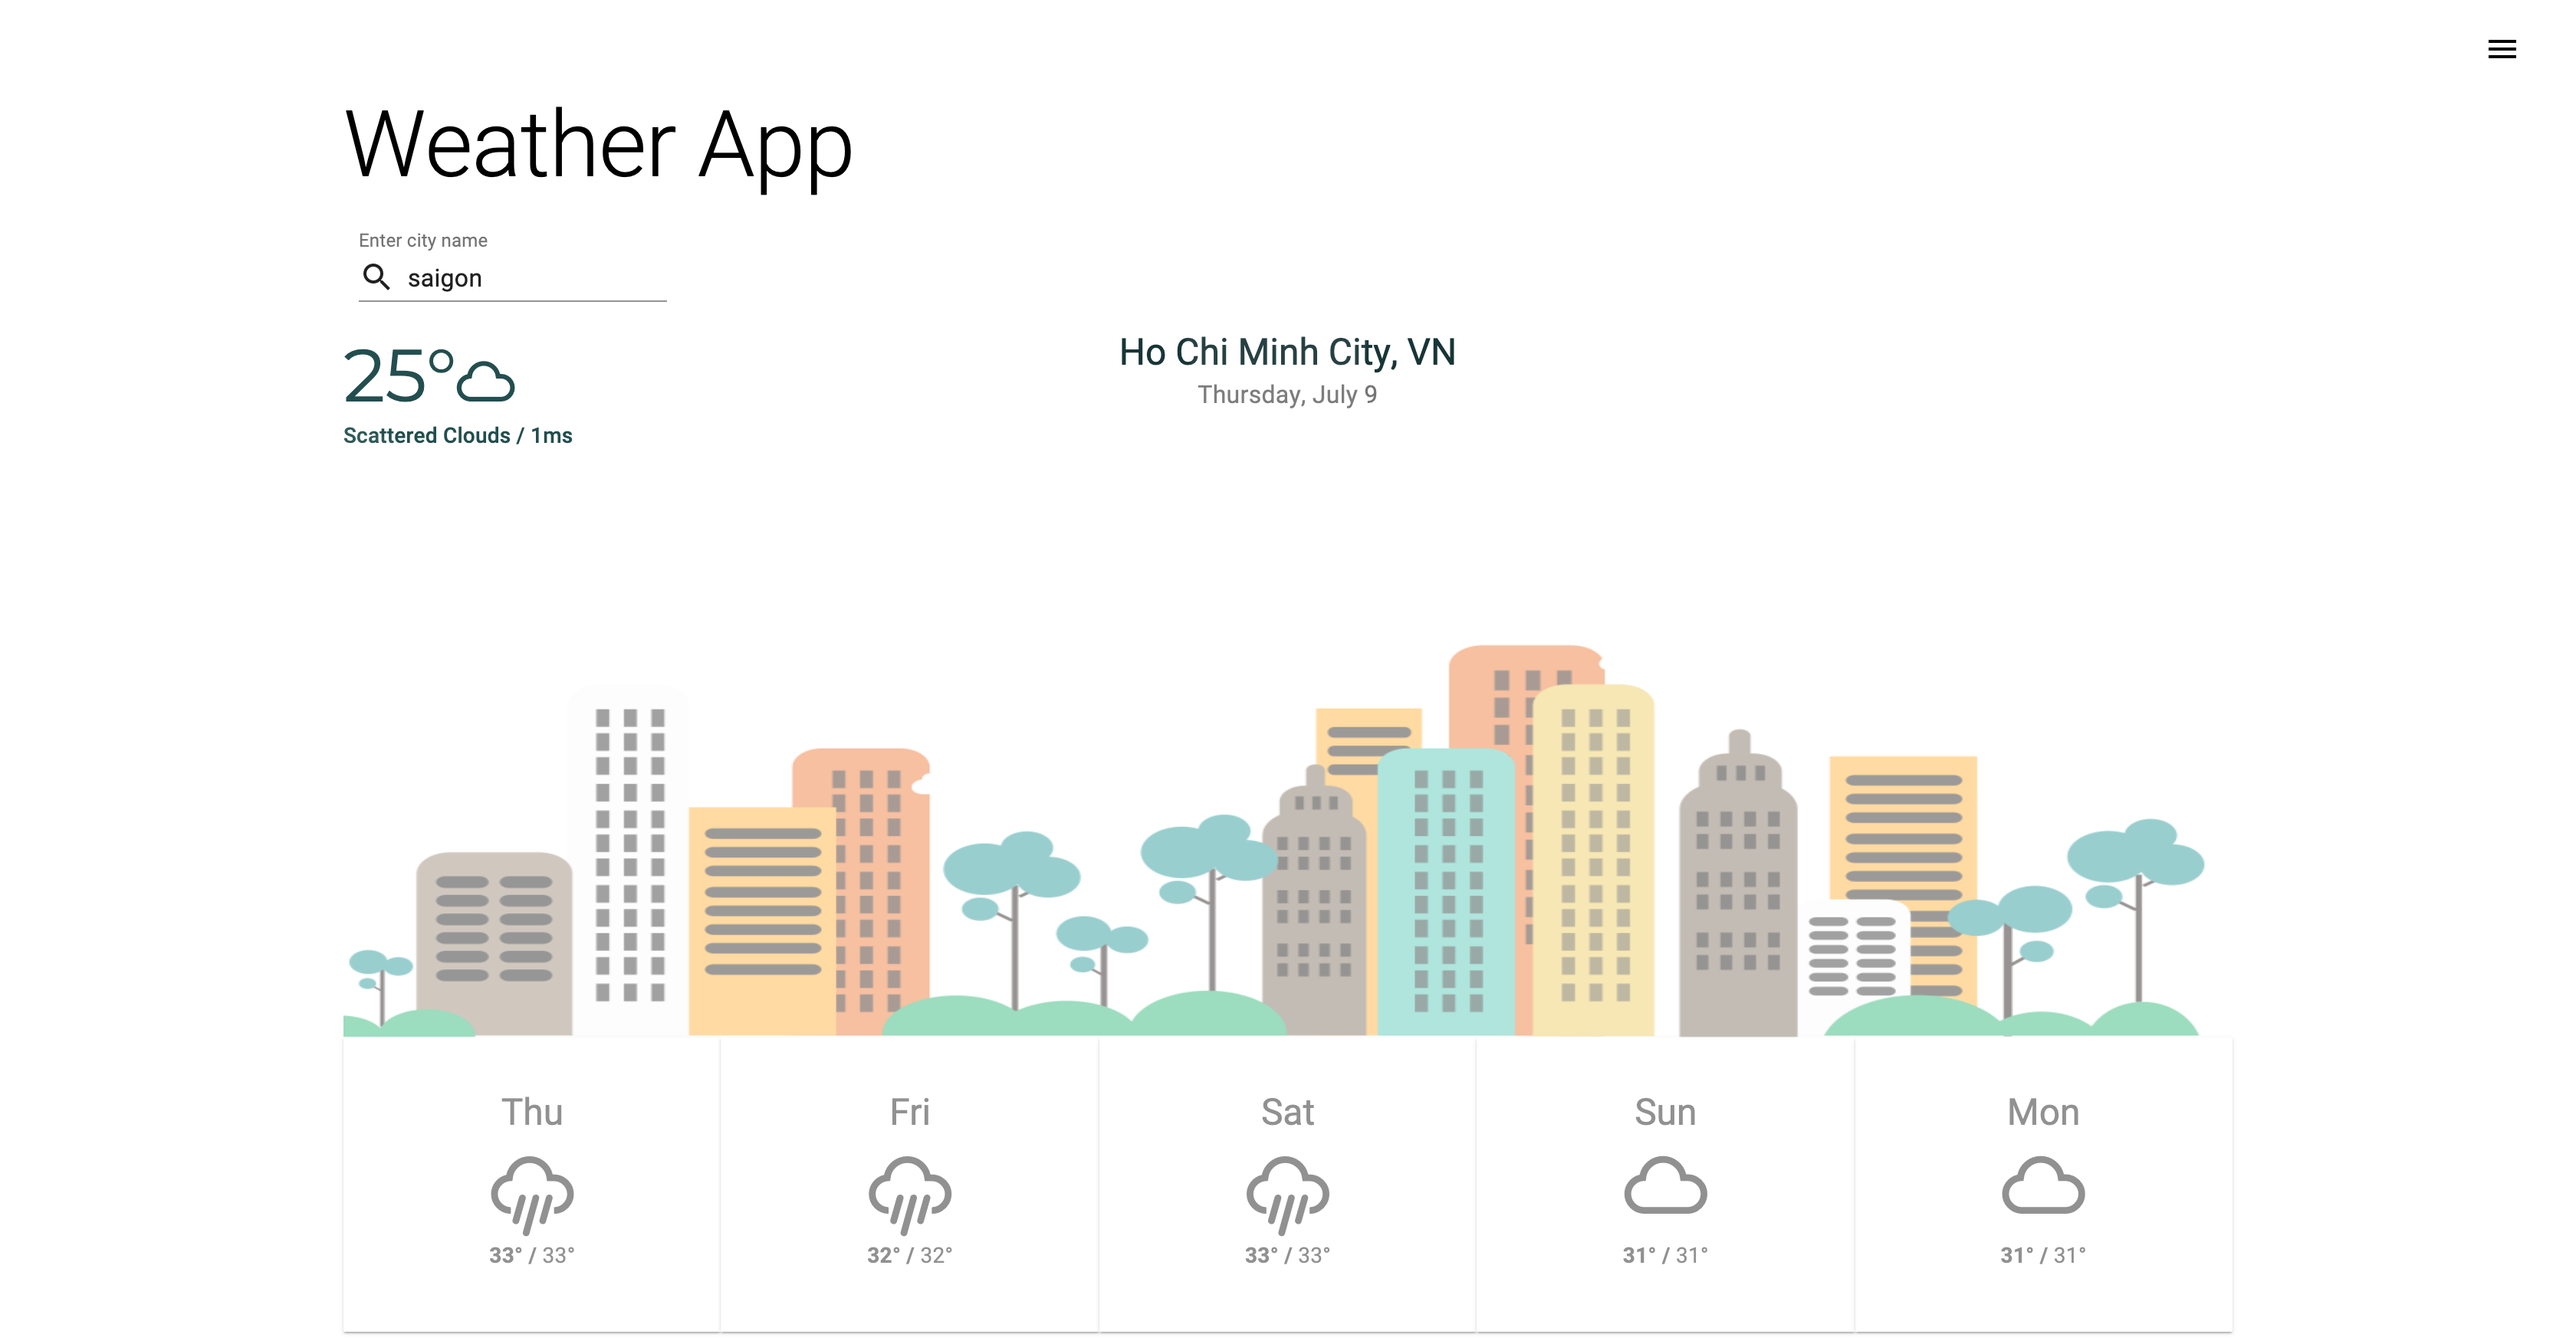
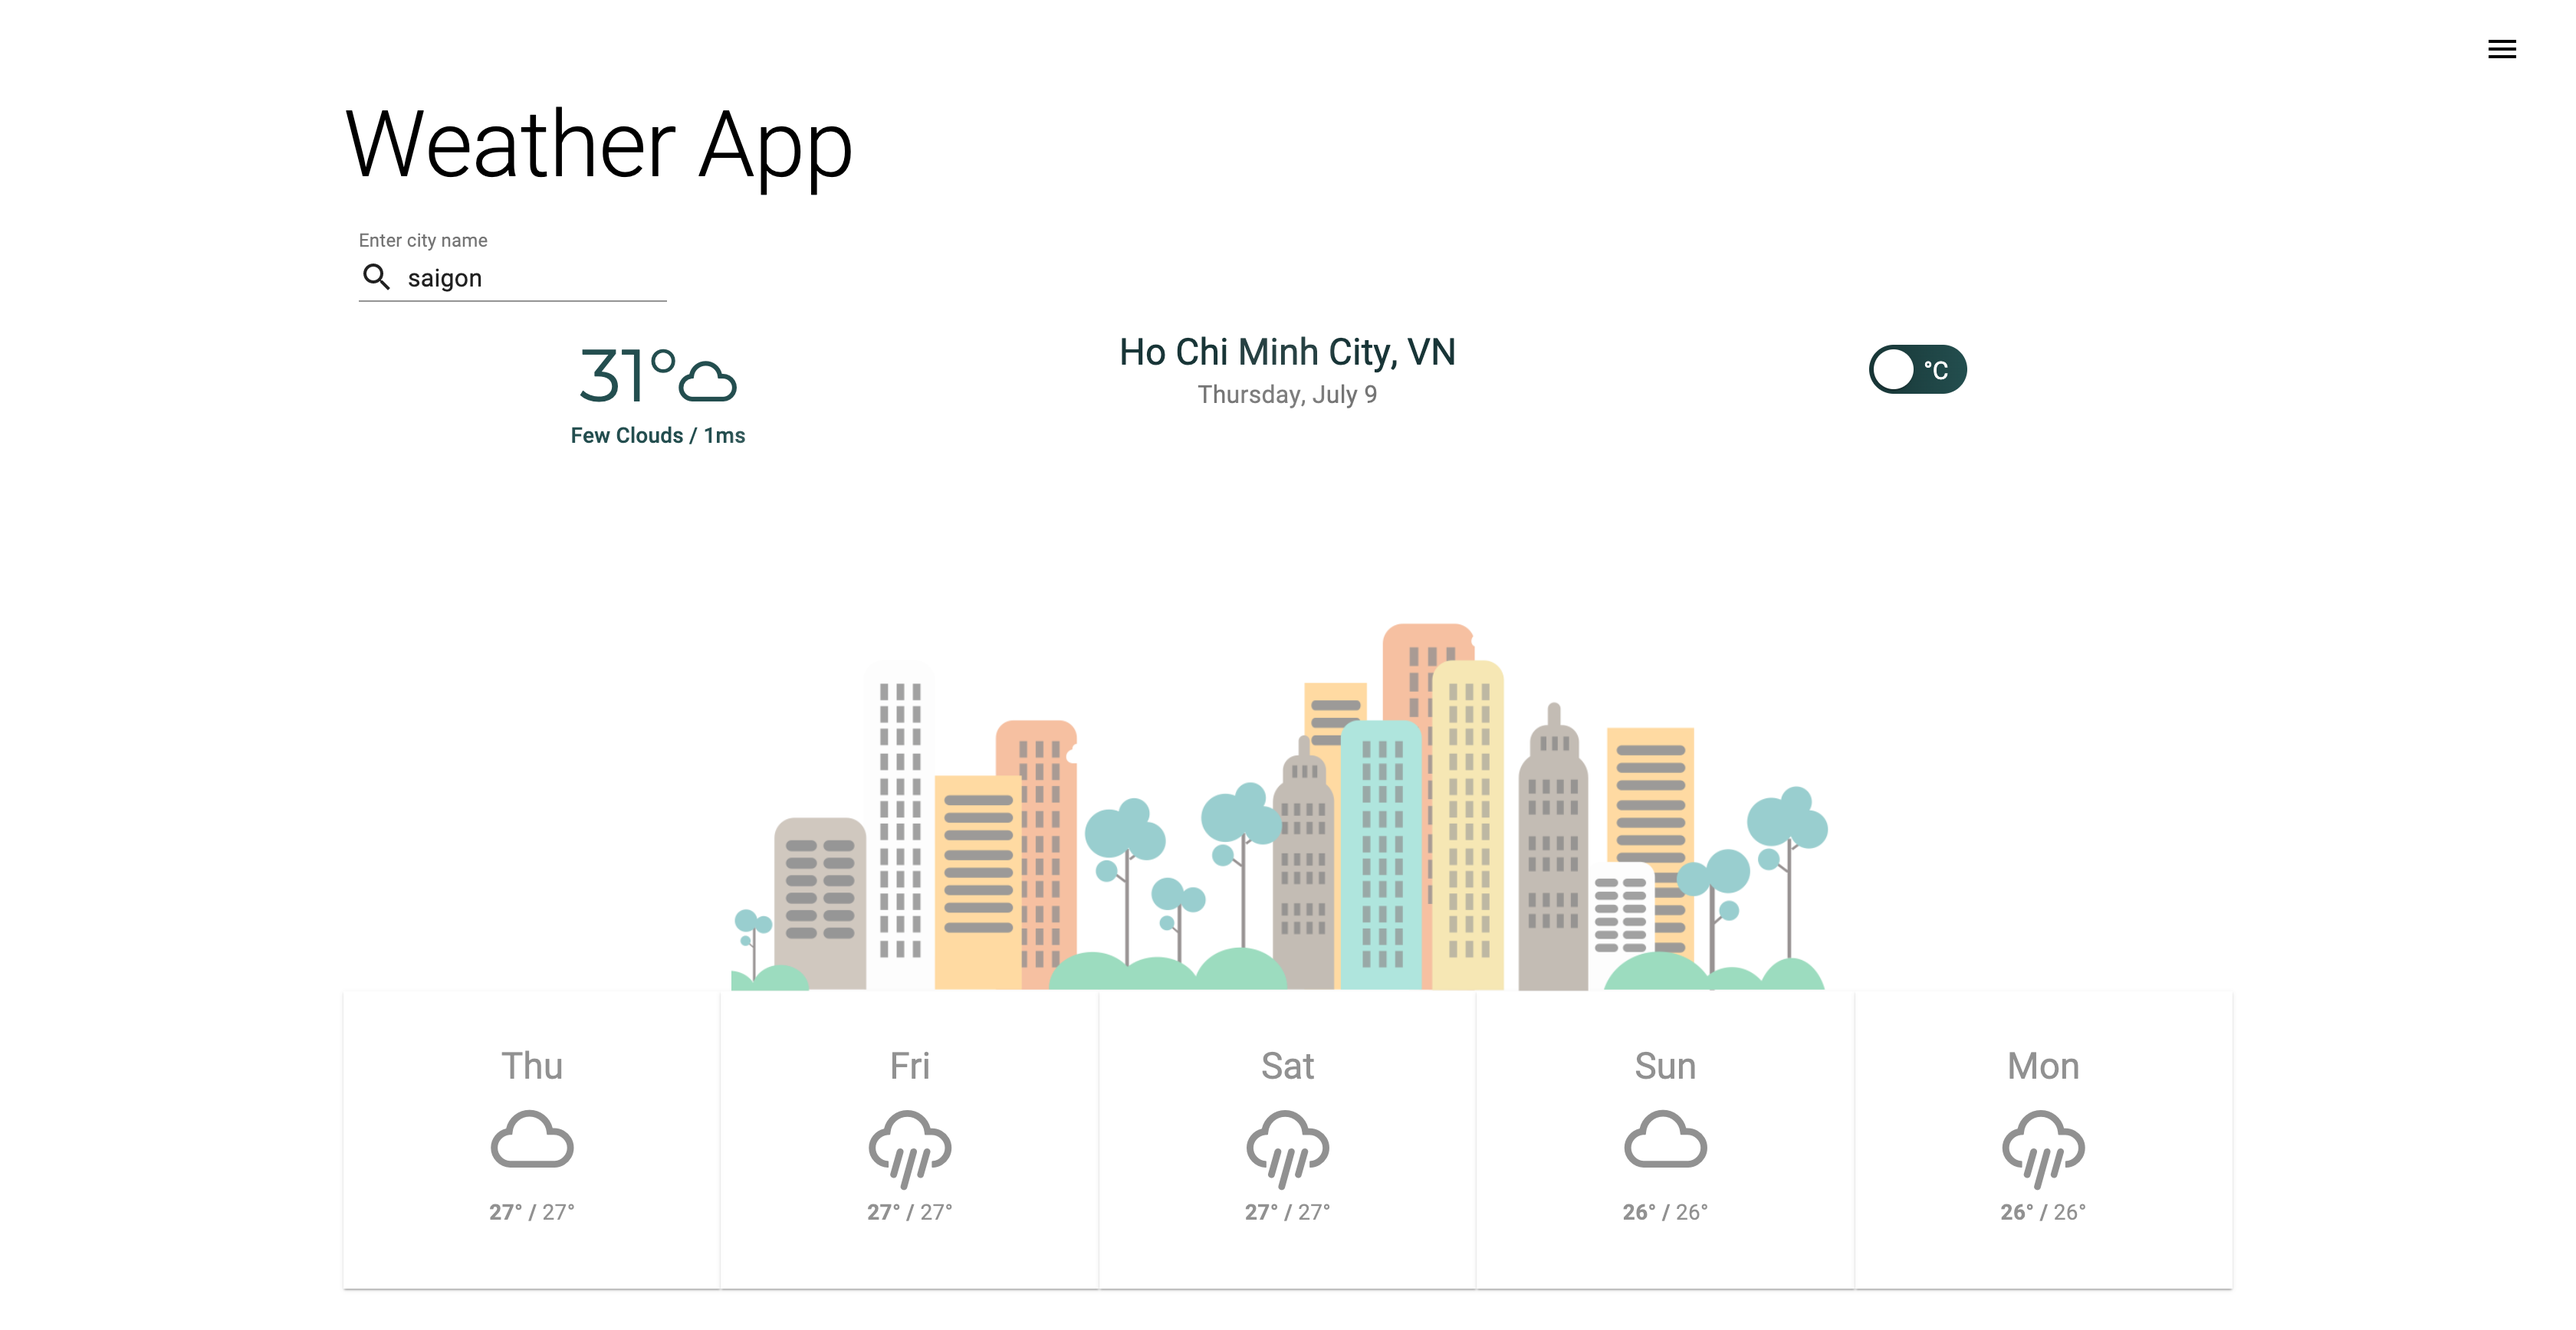
prop types

diff --git a/src/components/results/Weather.test.js b/src/components/results/Weather.test.js
@@ -1,15 +1,17 @@
 import React from 'react';
-import { render, cleanup } from '@testing-library/react';
+import { render, cleanup, fireEvent, screen } from '@testing-library/react';
 import { mappedWeather } from '../../../tools/mockData';
 import Weather from '../results/Weather';
 
-afterEach(cleanup);
 
-function renderWeather() {
-    return render(<Weather weather={mappedWeather} />);
+function renderWeather(args) {
+    const props = { weather: mappedWeather, ...args };
+    return render(<Weather {...props} />);
 }
 
 describe('Weather card render', () => {
+    afterEach(cleanup);
+
     it('should render London as the city', () => {
         const { getByText } = renderWeather();
         getByText('London, GB');
@@ -23,5 +25,14 @@ describe('Weather card render', () => {
     it('should render the description as overcast clouds and wind speed 5.1ms', () => {
         const { getByText } = renderWeather();
         getByText('Overcast Clouds / 5.1ms');
+    });
+
+    it('should toggle the temperature selection on user click', () => {
+        const mockChangeTemp = jest.fn();
+        const { getByRole } = renderWeather({ changeTemp: mockChangeTemp });
+        const toggleInput = getByRole('toggle');
+
+        fireEvent.change(toggleInput, { target: { checked: true } });
+        expect(getByRole('toggle')).toHaveProperty('checked', true);
     });
 });

diff --git a/src/components/results/Weather.js b/src/components/results/Weather.js
@@ -44,7 +44,8 @@ const useStyles = makeStyles((theme) => ({
 }));
 
 Weather.propTypes = {
-    weather: PropTypes.object
+    weather: PropTypes.object,
+    changeTemp: PropTypes.func.isRequired
 };
 
 export default function Weather(props) {
@@ -88,11 +89,9 @@ export default function Weather(props) {
                 </div>
 
                 <div className={classes.content}>
-                    <Switch classes={switchStyle} checked={toggled} onChange={handleToggle} />
+                    <Switch role='toggle' classes={switchStyle} checked={toggled} onChange={handleToggle} />
                 </div>
-
             </div>
-
         </div>
     );
 }

diff --git a/src/components/results/Forecast.test.js b/src/components/results/Forecast.test.js
@@ -6,7 +6,7 @@ import Forecast from './Forecast';
 afterEach(cleanup);
 
 function renderForecast() {
-    return render(<Forecast forecast={mappedForecast} />);
+    return render(<Forecast forecast={mappedForecast} farenheit={false} />);
 }
 
 describe('Forecast card render', () => {

diff --git a/src/components/results/Forecast.js b/src/components/results/Forecast.js
@@ -49,7 +49,8 @@ function renderDetails(forecast, classes, farenheit) {
 }
 
 Forecast.propTypes = {
-    forecast: PropTypes.array
+    forecast: PropTypes.array,
+    farenheit: PropTypes.bool.isRequired
 };
 
 

diff --git a/tools/mockData.js b/tools/mockData.js
@@ -1432,6 +1432,7 @@ const mappedWeather = {
   'humidity': 45,
   'icon_id': 804,
   'temperature': 20,
+  'temperatureF': 67,
   'description': 'overcast clouds',
   'wind_speed': 5.1,
   'condition': 200

diff --git a/src/components/home/HomePage.js b/src/components/home/HomePage.js
@@ -18,7 +18,6 @@ function HomePage(props) {
 
   const changeTemp = () => setFarenheit(!farenheit);
 
-
   return (
     <Container>
       <Typography variant="h2" gutterBottom>Weather App</Typography>
